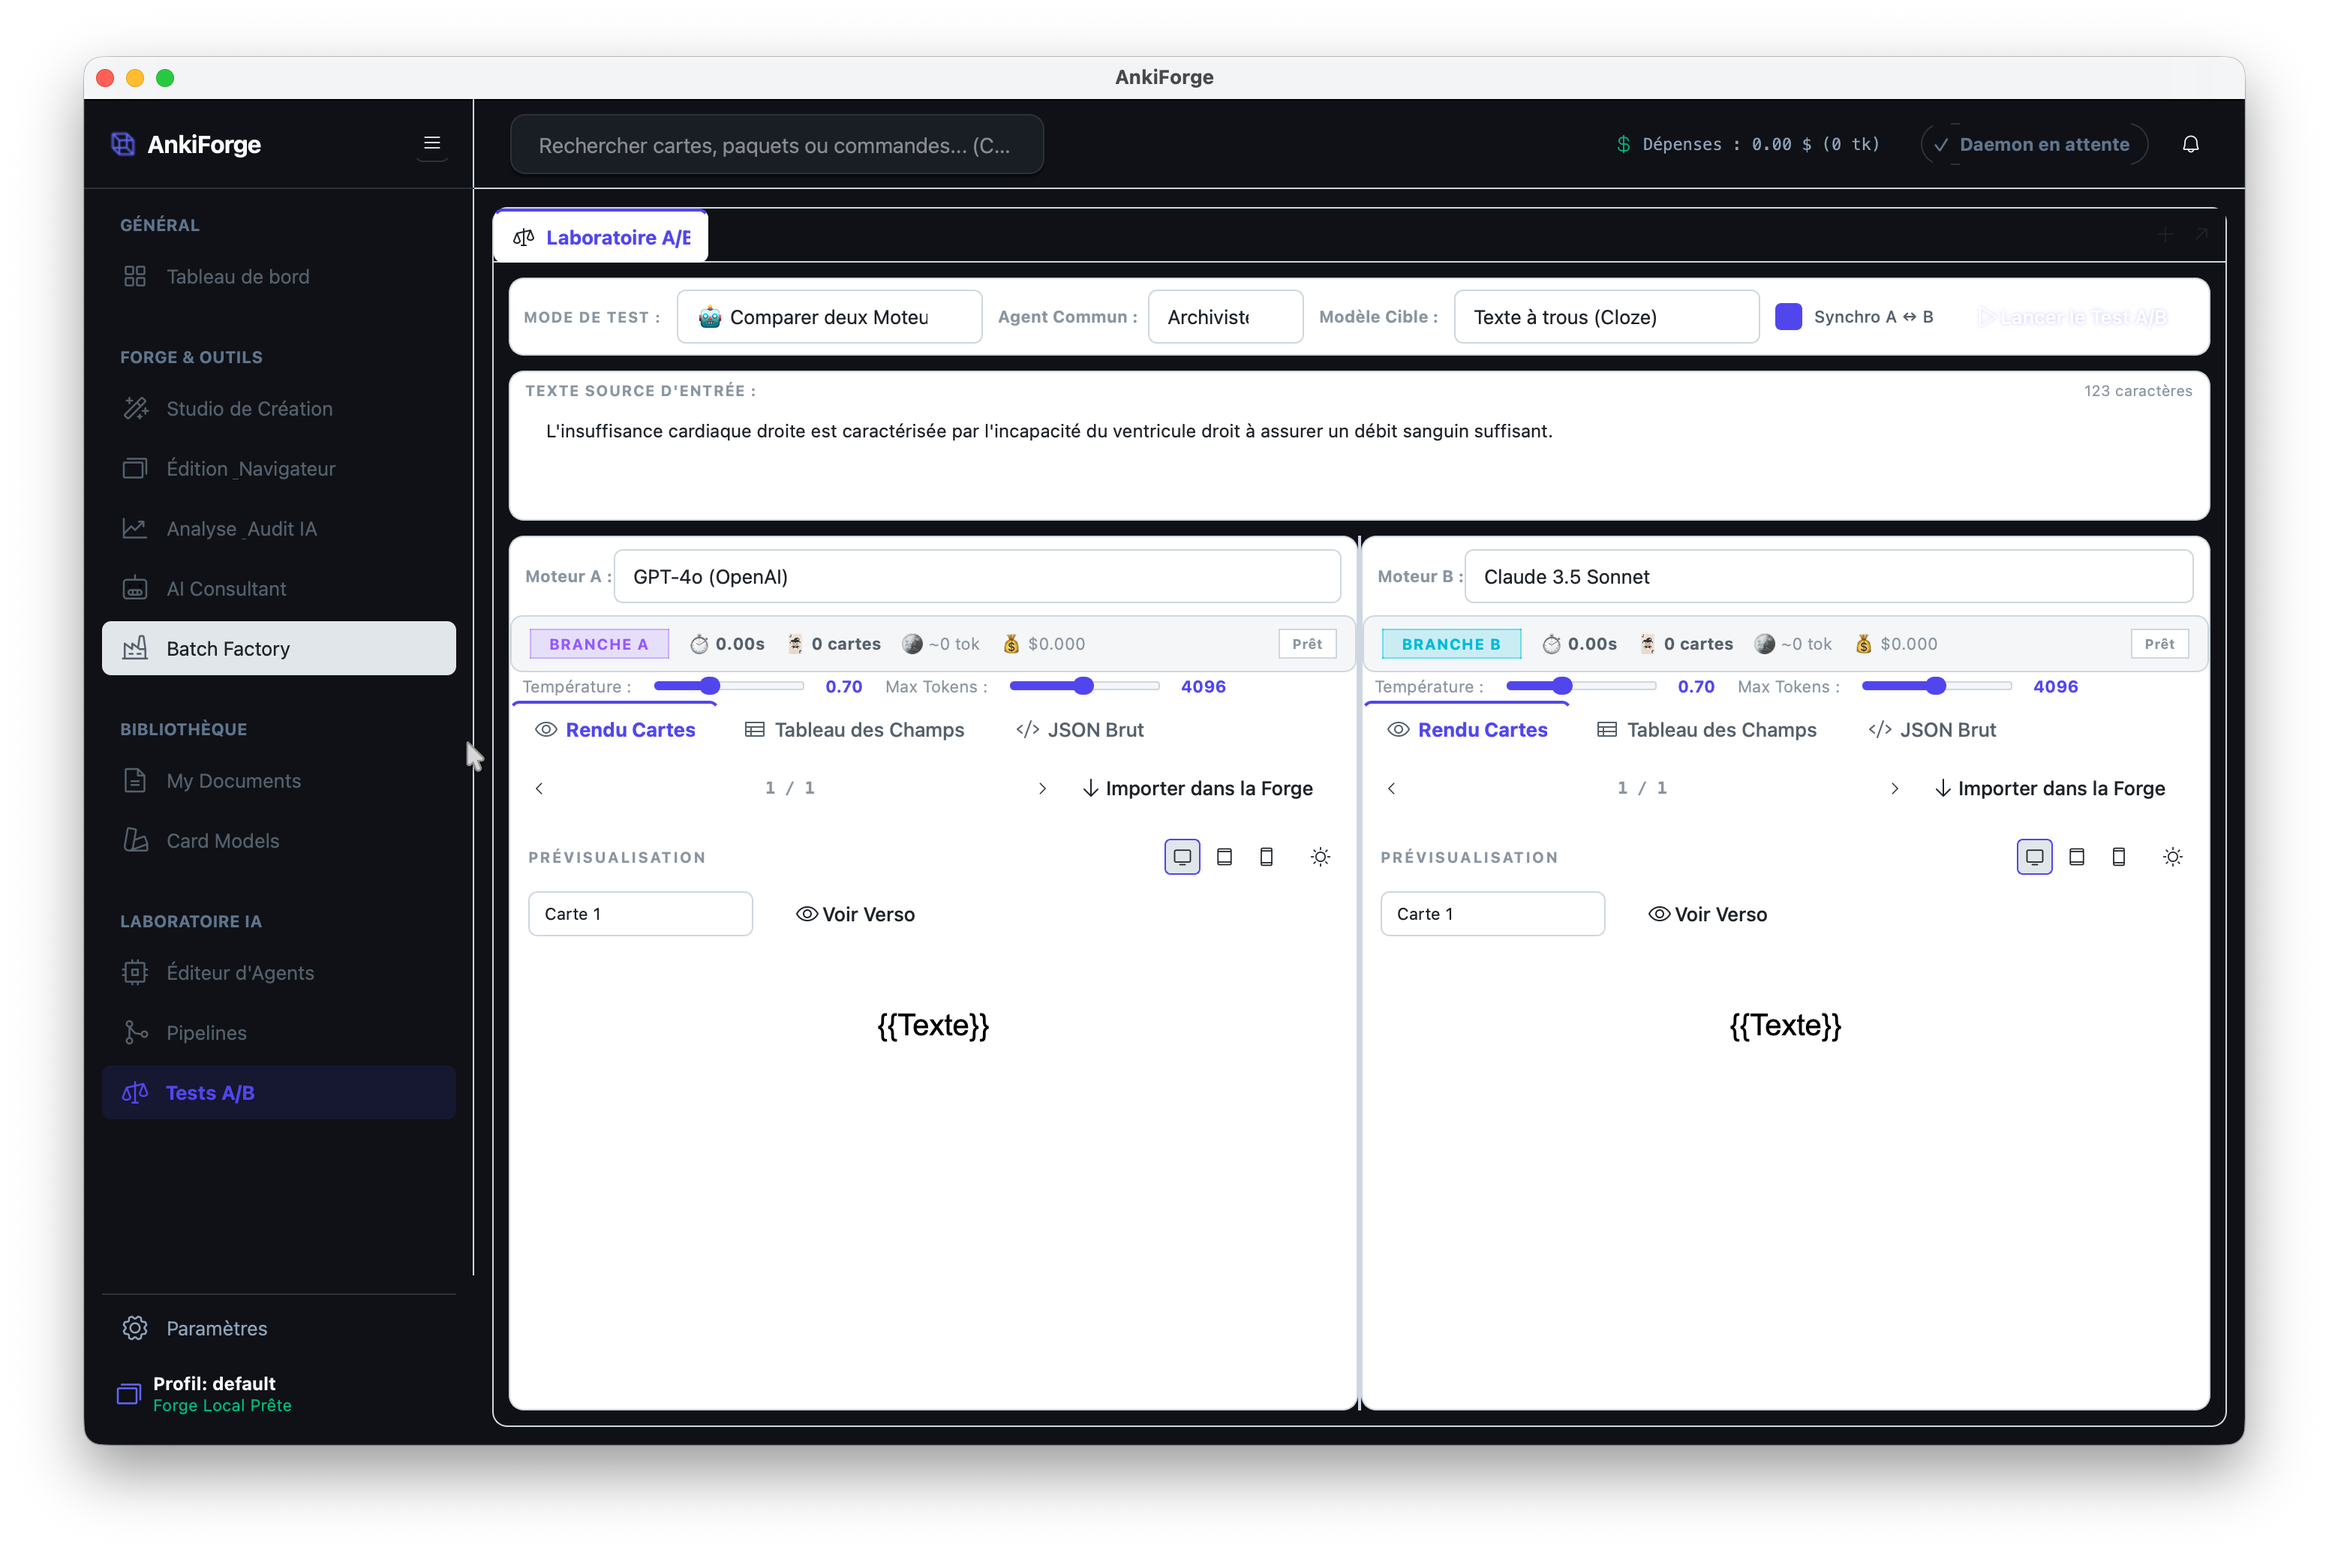
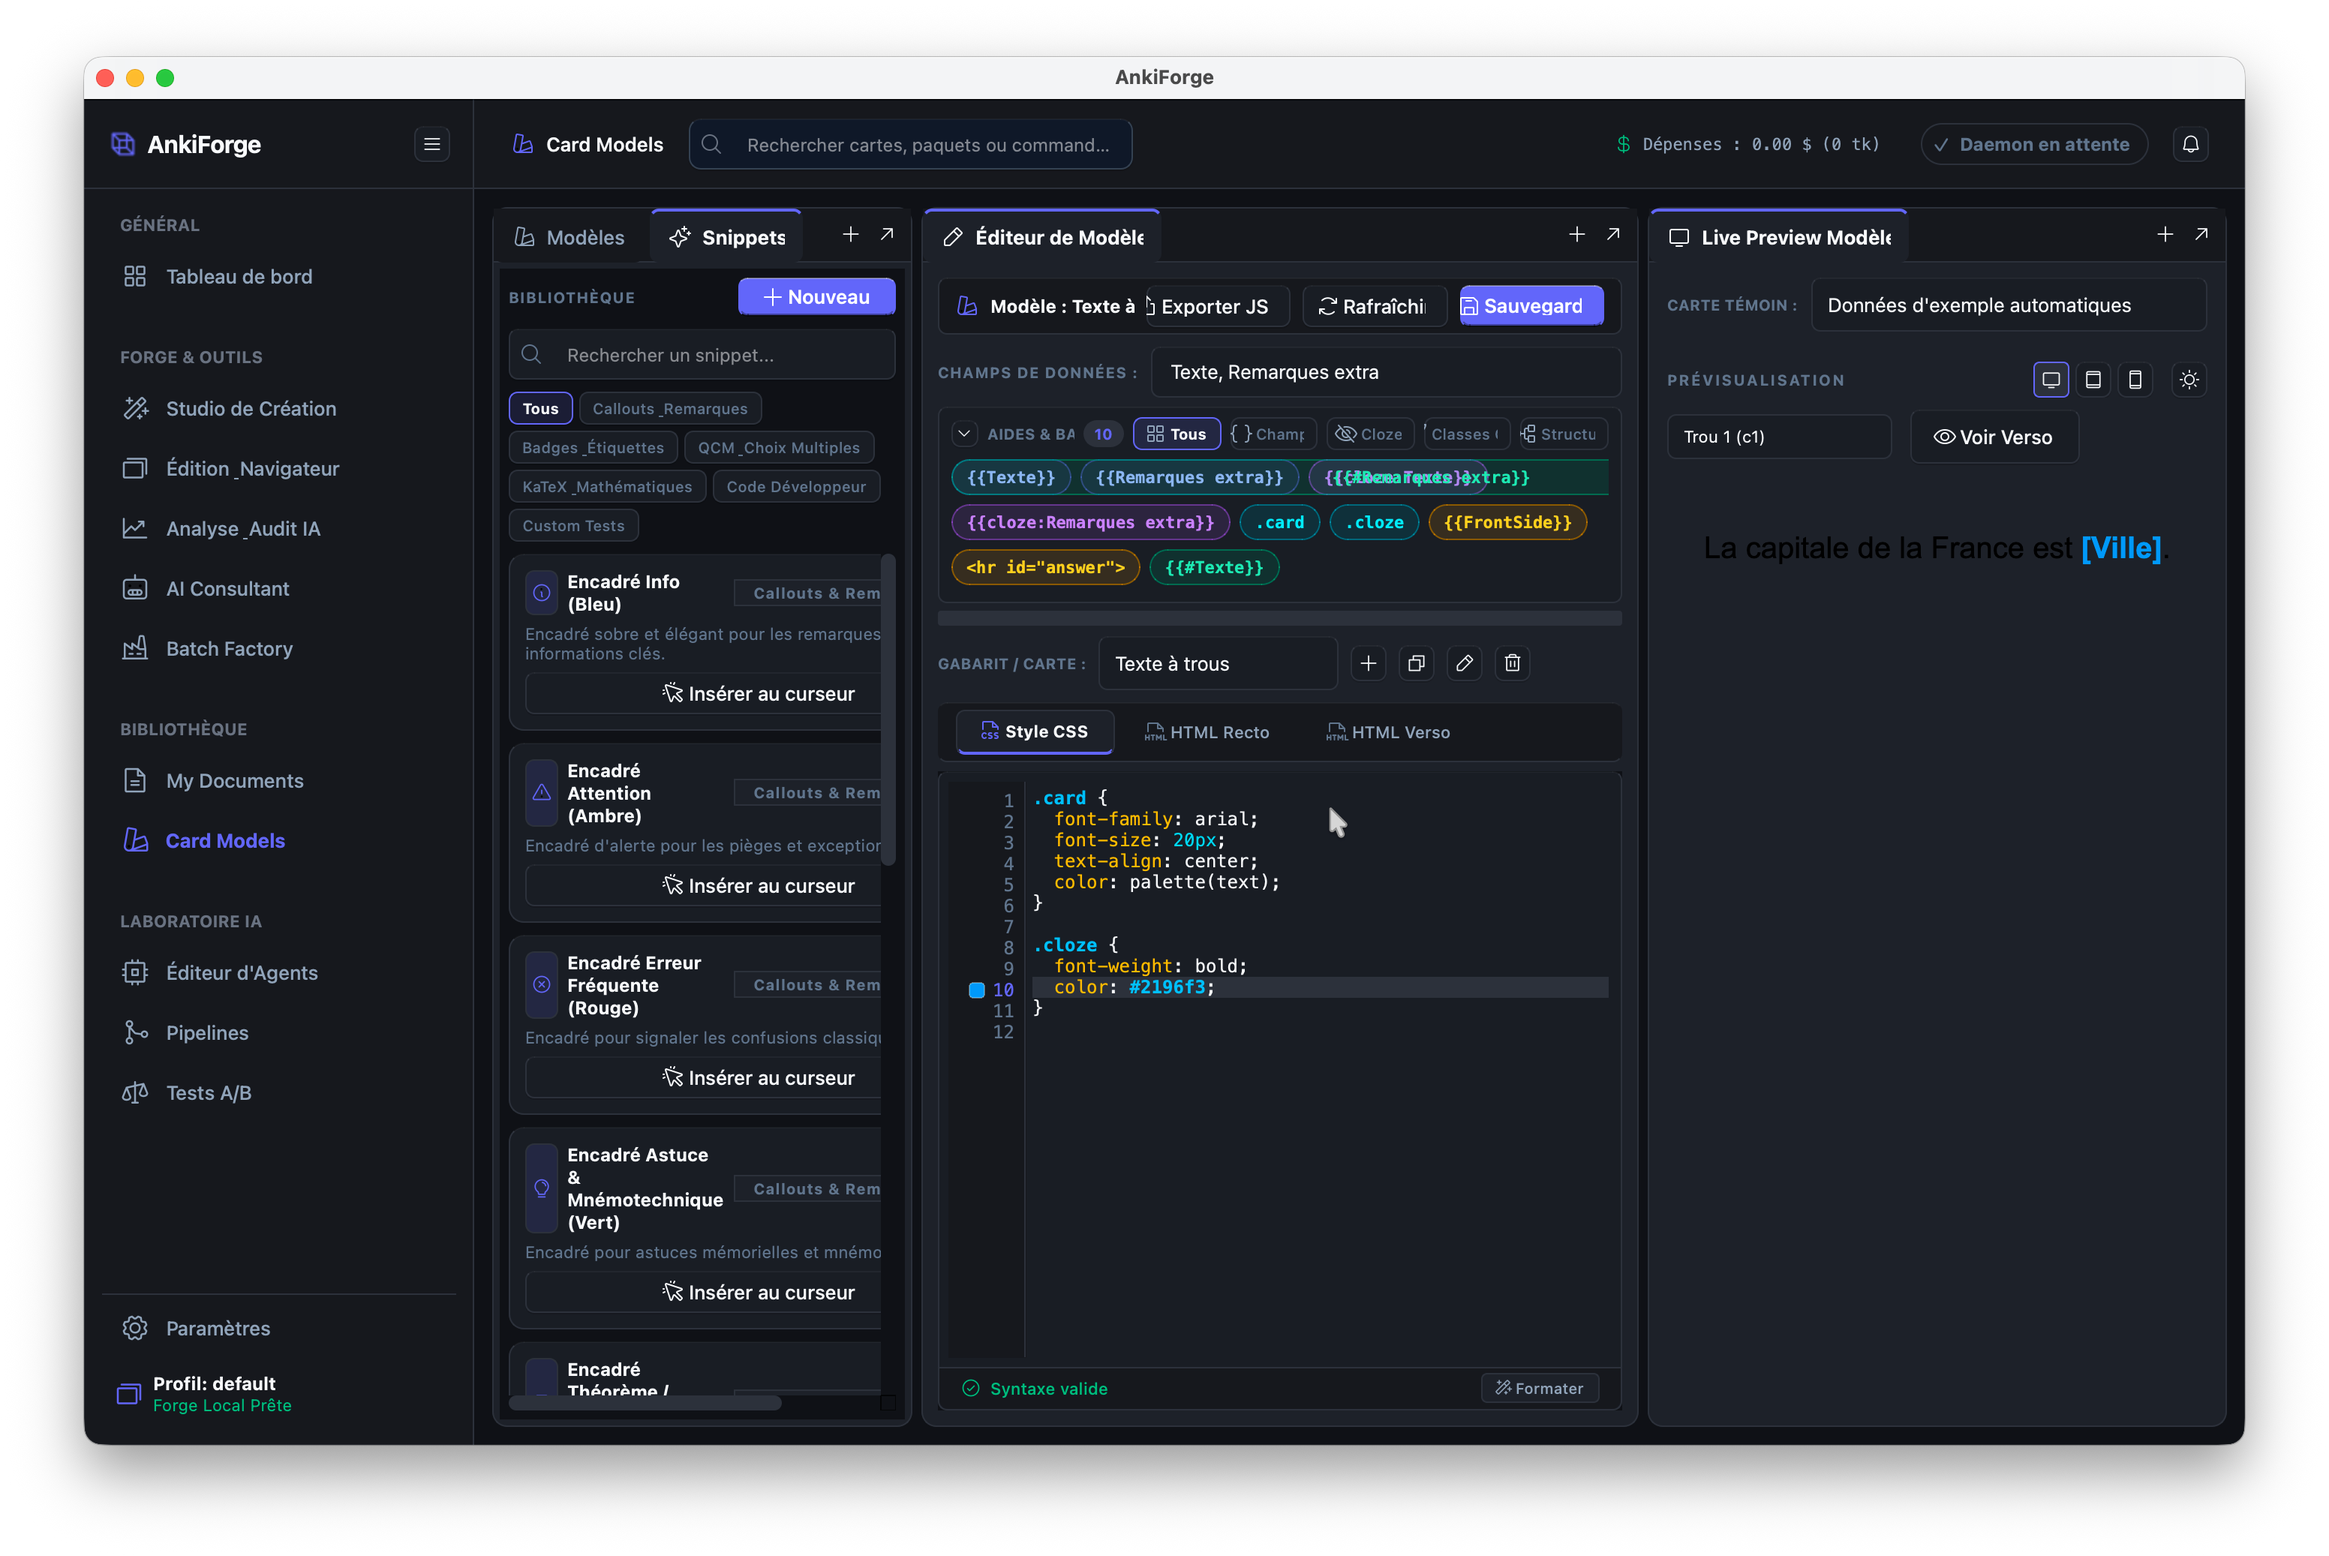
feat(tests,ci): ajoute des marqueurs pytest, optimise config pre-commit et améliore la couverture
- ajoute les marqueurs pytest `slow`, `integration` et `ui` pour une gestion granulaire des tests
- configure un timeout global pour pytest avec gestion par threads
- modifie `pre-commit` pour exécuter uniquement les tests rapides et unitaires par défaut
- met à jour les tests avec des annotations pour mieux catégoriser les suites (UI, intégration)
- ajoute la dépendance `pytest-timeout` pour améliorer la robustesse des tests

diff --git a/tests/ui/test_layouts.py b/tests/ui/test_layouts.py
@@ -2,6 +2,7 @@
 Tests unitaires pour l'Architecture UI Enfichable (Layouts) d'AnkiForge.
 """
 
+import pytest
 from unittest.mock import patch
 from PySide6.QtWidgets import QStackedWidget, QWidget
 
@@ -15,6 +16,7 @@ from ankiforge.ui.main_window import MainWindow
 from ankiforge.ui.theme import DesignTokens
 
 
+@pytest.mark.ui
 def test_layout_manager_available_layouts():
     """Vérifie que tous les 4 layouts sont correctement enregistrés."""
     layouts = LayoutManager.get_available_layouts()
@@ -25,6 +27,8 @@ def test_layout_manager_available_layouts():
     assert "glassmorphism" in layout_ids
 
 
+@pytest.mark.slow
+@pytest.mark.ui
 def test_layout_instantiation_and_theme_sync(qtbot):
     """Vérifie l'instanciation de chaque classe de layout, l'injection du stacked widget et la synchro du thème."""
     stack = QStackedWidget()
@@ -47,6 +51,8 @@ def test_layout_instantiation_and_theme_sync(qtbot):
         layout.update_token_tracker("0.05", "1500")
 
 
+@pytest.mark.slow
+@pytest.mark.ui
 def test_main_window_layout_hot_reload_and_tokens(qtbot, mock_db):
     """Vérifie le basculement dynamique à chaud des layouts et de leurs tokens visuels sur MainWindow."""
     LayoutManager.save_layout_id("test_profile", "ide")
@@ -101,6 +107,8 @@ def test_layout_persistence(tmp_path):
     assert LayoutManager.get_saved_layout_id(profile) == "glassmorphism"
 
 
+@pytest.mark.slow
+@pytest.mark.ui
 def test_ide_layout_sidebar_toggle(qtbot, mock_db):
     """Vérifie que le bouton de la sidebar et l'icône du logo rétractent et ré-étendent correctement la sidebar."""
     with patch("ankiforge.services.background_daemon.BackgroundDaemon"), patch("ankiforge.ui.views.dashboard_view.StatsWorker.start"):

diff --git a/tests/ui/test_creation_view.py b/tests/ui/test_creation_view.py
@@ -1,3 +1,4 @@
+import pytest
 import json
 import uuid
 from typing import Any
@@ -32,6 +33,7 @@ class DummyCreationAIManager:
         return DummyCreationProvider()
 
 
+@pytest.mark.ui
 def test_creation_view_creation(qtbot, mock_db):
     """Vérifie l'instanciation de base de la vue de création."""
     view = CreationView(ai_manager=None)
@@ -39,6 +41,8 @@ def test_creation_view_creation(qtbot, mock_db):
     assert view is not None
 
 
+@pytest.mark.slow
+@pytest.mark.ui
 def test_creation_view_dag_generation_flow(qtbot, mock_db):
     """Vérifie le déclenchement asynchrone de la génération DAG et la réception des cartes."""
 
@@ -91,6 +95,7 @@ def test_creation_view_dag_generation_flow(qtbot, mock_db):
     view.thread_pool.waitForDone(2000)
 
 
+@pytest.mark.ui
 def test_human_validation_dialog(qtbot, mock_db):
     """Vérifie le fonctionnement de la modale HumanValidationDialog."""
     from ankiforge.services.ai.state import PipelineRunState
@@ -117,6 +122,7 @@ def test_human_validation_dialog(qtbot, mock_db):
     assert state.get_variable("map_items") == ["Concept 1 Modifié"]
 
 
+@pytest.mark.ui
 def test_creation_view_cancellation(qtbot, mock_db):
     """Vérifie l'annulation propre de la génération dans CreationView."""
     view = CreationView(ai_manager=None)

diff --git a/src/ankiforge/ui/components/flow_layout.py b/src/ankiforge/ui/components/flow_layout.py
@@ -115,8 +115,7 @@ class FlowLayout(QLayout):
 
 class FlowWidget(QWidget):
     """
-    Conteneur spécialisé pour FlowLayout garantissant la propagation exacte de heightForWidth
-    vers les QScrollArea et les layouts parents.
+    Conteneur spécialisé pour FlowLayout avec nettoyage propre et politique d'expansion fluide.
     """
 
     def __init__(
@@ -129,17 +128,6 @@ class FlowWidget(QWidget):
         super().__init__(parent)
         self.setSizePolicy(QSizePolicy.Policy.Expanding, QSizePolicy.Policy.MinimumExpanding)
         self.flow_layout = FlowLayout(self, margin=margin, h_spacing=h_spacing, v_spacing=v_spacing)
-
-    def hasHeightForWidth(self) -> bool:
-        return True
-
-    def heightForWidth(self, width: int) -> int:
-        return self.flow_layout.heightForWidth(width)
-
-    def sizeHint(self) -> QSize:
-        w = max(self.width(), 100)
-        h = self.heightForWidth(w)
-        return QSize(w, h)
 
     def clear(self) -> None:
         """Supprime immédiatement tous les widgets enfants du layout."""

diff --git a/tests/ui/test_main_window.py b/tests/ui/test_main_window.py
@@ -1,3 +1,4 @@
+import pytest
 from unittest.mock import patch
 from ankiforge.ui.main_window import MainWindow
 from ankiforge.ui.views.batch_view import BatchView
@@ -5,6 +6,8 @@ from ankiforge.ui.views.edition_view import EditionView
 from ankiforge.database.models import NoteModel, NoteTypeModel, NoteVersionModel
 
 
+@pytest.mark.slow
+@pytest.mark.ui
 def test_main_window_creation(qtbot, mock_db):
     with patch("ankiforge.services.background_daemon.BackgroundDaemon"), patch("ankiforge.ui.views.dashboard_view.StatsWorker.start"):
         window = MainWindow(ai_manager=None)
@@ -15,6 +18,8 @@ def test_main_window_creation(qtbot, mock_db):
         assert window.topbar.breadcrumb_lbl.text() == "Tableau de bord"
 
 
+@pytest.mark.slow
+@pytest.mark.ui
 def test_main_window_breadcrumb_navigation(qtbot, mock_db):
     with patch("ankiforge.services.background_daemon.BackgroundDaemon"), patch("ankiforge.ui.views.dashboard_view.StatsWorker.start"):
         window = MainWindow(ai_manager=None)

diff --git a/tests/conftest.py b/tests/conftest.py
@@ -82,19 +82,21 @@ def mock_db():
 
 @pytest.fixture(autouse=True)
 def cleanup_qt_widgets():
-    """Nettoie les fenêtres et widgets top-level Qt à la fin de chaque test."""
+    """Nettoie les fenêtres et widgets Qt à la fin de chaque test."""
     yield
+    from PySide6.QtCore import QCoreApplication, QEvent
     from PySide6.QtWidgets import QApplication
 
     app = QApplication.instance()
     if app:
-        app.processEvents()
-        for widget in list(app.topLevelWidgets()):
+        for widget in list(app.allWidgets()):
             try:
-                widget.close()
-                widget.deleteLater()
+                if widget.parent() is None:
+                    widget.close()
+                    widget.deleteLater()
             except Exception:
                 pass
+        QCoreApplication.sendPostedEvents(None, QEvent.Type.DeferredDelete)
         app.processEvents()
 
 

diff --git a/tests/ui/test_card_models_view.py b/tests/ui/test_card_models_view.py
@@ -727,11 +727,11 @@ def test_card_models_13inch_responsive_layout_and_flow_widget(qtbot, mock_db):
     assert top_bar.btn_export_json.text() == "Exporter JSON"
     assert top_bar.btn_refresh.text() == "Rafraîchir"
 
-    # 2. Vérification de FlowWidget
-    flow_w = view.tags_container
-    assert flow_w.hasHeightForWidth() is True
-    h1 = flow_w.heightForWidth(300)
-    h2 = flow_w.heightForWidth(800)
+    # 2. Vérification de FlowLayout
+    flow_l = view.tags_flow_layout
+    assert flow_l.hasHeightForWidth() is True
+    h1 = flow_l.heightForWidth(300)
+    h2 = flow_l.heightForWidth(800)
     assert h1 >= h2  # Plus la largeur est petite, plus la hauteur s'adapte en passant à la ligne
 
     # 3. Vérification des Snippet Cards sans débordement horizontal

diff --git a/tests/ui/test_ab_tests_view.py b/tests/ui/test_ab_tests_view.py
@@ -1,3 +1,4 @@
+import pytest
 import json
 import uuid
 from typing import Any
@@ -50,6 +51,8 @@ class DummySingleABManager:
         return DummyABProviderA()
 
 
+@pytest.mark.slow
+@pytest.mark.ui
 def test_ab_tests_view_engine_comparison(qtbot):
     """Vérifie le test A/B en Mode 0 : Comparer deux Moteurs IA et importer les cartes."""
     uid = uuid.uuid4().hex[:6]
@@ -110,6 +113,7 @@ def test_ab_tests_view_engine_comparison(qtbot):
     assert NoteModel.select().count() == initial_notes + 1
 
 
+@pytest.mark.ui
 def test_ab_tests_view_prompt_and_pipeline_comparison(qtbot):
     """Vérifie le test A/B en Mode 1 (Prompts) et Mode 2 (Pipelines) ainsi que la navigation synchro."""
     uid = uuid.uuid4().hex[:6]

diff --git a/tests/services/rag/test_vector_manager.py b/tests/services/rag/test_vector_manager.py
@@ -1,9 +1,11 @@
+import pytest
 import uuid
 from ankiforge.database.models import DocumentModel, DocumentChunkModel
 from ankiforge.services.rag.vector_manager import VectorManager
 from ankiforge.services.ai.rag_service import RAGService
 
 
+@pytest.mark.integration
 def test_vector_manager_index_and_search(tmp_path):
     """Vérifie l'indexation FAISS locale et la recherche sémantique."""
     uid = uuid.uuid4().hex[:6]
@@ -37,6 +39,7 @@ def test_vector_manager_index_and_search(tmp_path):
     assert any("mitochondrie" in r["content"].lower() for r in results)
 
 
+@pytest.mark.integration
 def test_rag_service_facade(tmp_path):
     """Vérifie la façade RAGService."""
     uid = uuid.uuid4().hex[:6]

diff --git a/src/ankiforge/ui/components/code_editor.py b/src/ankiforge/ui/components/code_editor.py
@@ -1042,8 +1042,11 @@ class NativeCodeEditor(QPlainTextEdit):
         # 38px de base pour pastilles de couleur (10px) + puces d'alerte (6px) + marges
         return 38 + char_width * max(2, digits)
 
-    def _update_line_number_area_width(self, _: int) -> None:
-        self.setViewportMargins(self.line_number_area_width(), 0, 0, 0)
+    def _update_line_number_area_width(self, _: int = 0) -> None:
+        new_width = self.line_number_area_width()
+        margins = self.viewportMargins()
+        if margins.left() != new_width:
+            self.setViewportMargins(new_width, 0, 0, 0)
 
     def _update_line_number_area(self, rect: QRect, dy: int) -> None:
         if dy:

diff --git a/tests/ui/test_style_engine.py b/tests/ui/test_style_engine.py
@@ -2,6 +2,7 @@
 Tests unitaires pour le Moteur de Style Centralisé (StyleEngine) d'AnkiForge.
 """
 
+import pytest
 from PySide6.QtWidgets import QApplication
 
 from ankiforge.ui.components.buttons import DangerButton, PrimaryButton, SecondaryButton
@@ -245,6 +246,7 @@ def test_force_global_repolish_and_live_signal(qtbot):
     assert DesignTokens.ACTIVE_THEME_ID == "dracula_light"
 
 
+@pytest.mark.slow
 def test_all_builtin_themes_compilation_and_application(qtbot):
     """Vérifie que la compilation QSS et l'application s'exécutent avec succès sur TOUS les thèmes intégrés."""
     from ankiforge.ui.style_engine import BUILTIN_THEMES

diff --git a/tests/services/cards/test_store_manager.py b/tests/services/cards/test_store_manager.py
@@ -1,3 +1,4 @@
+import pytest
 import csv
 from unittest.mock import patch, MagicMock
 
@@ -16,6 +17,7 @@ def test_extract_pb_string():
     assert result == "Hello"
 
 
+@pytest.mark.integration
 def test_handle_txt_import(tmp_path):
     """Génère un fichier TSV à la volée et vérifie son importation."""
     manager = StoreManager()
@@ -43,6 +45,7 @@ def test_handle_txt_import(tmp_path):
     assert "Cat" in note.versions.first().content
 
 
+@pytest.mark.integration
 @patch("ankiforge.services.cards.store_manager.sqlite3.connect")
 @patch("zipfile.ZipFile")
 def test_handle_apkg_mocked(mock_zip, mock_sqlite, tmp_path):

diff --git a/tests/services/parsing/test_document_parser.py b/tests/services/parsing/test_document_parser.py
@@ -47,6 +47,7 @@ def test_parse_text_file(tmp_path):
 # ==========================================
 
 
+@pytest.mark.integration
 def test_parse_docx_success(tmp_path):
     """Test 4: Vérifie l'extraction d'un Word et la traduction des styles en Markdown."""
     fake_docx_path = tmp_path / "test_cours.docx"
@@ -67,6 +68,7 @@ def test_parse_docx_success(tmp_path):
     assert "## Démonstration" in result
 
 
+@pytest.mark.integration
 def test_parse_pptx_success(tmp_path):
     """Test 5: Vérifie l'extraction d'un PowerPoint slide par slide avec balise SPLIT."""
     fake_pptx_path = tmp_path / "test_prez.pptx"
